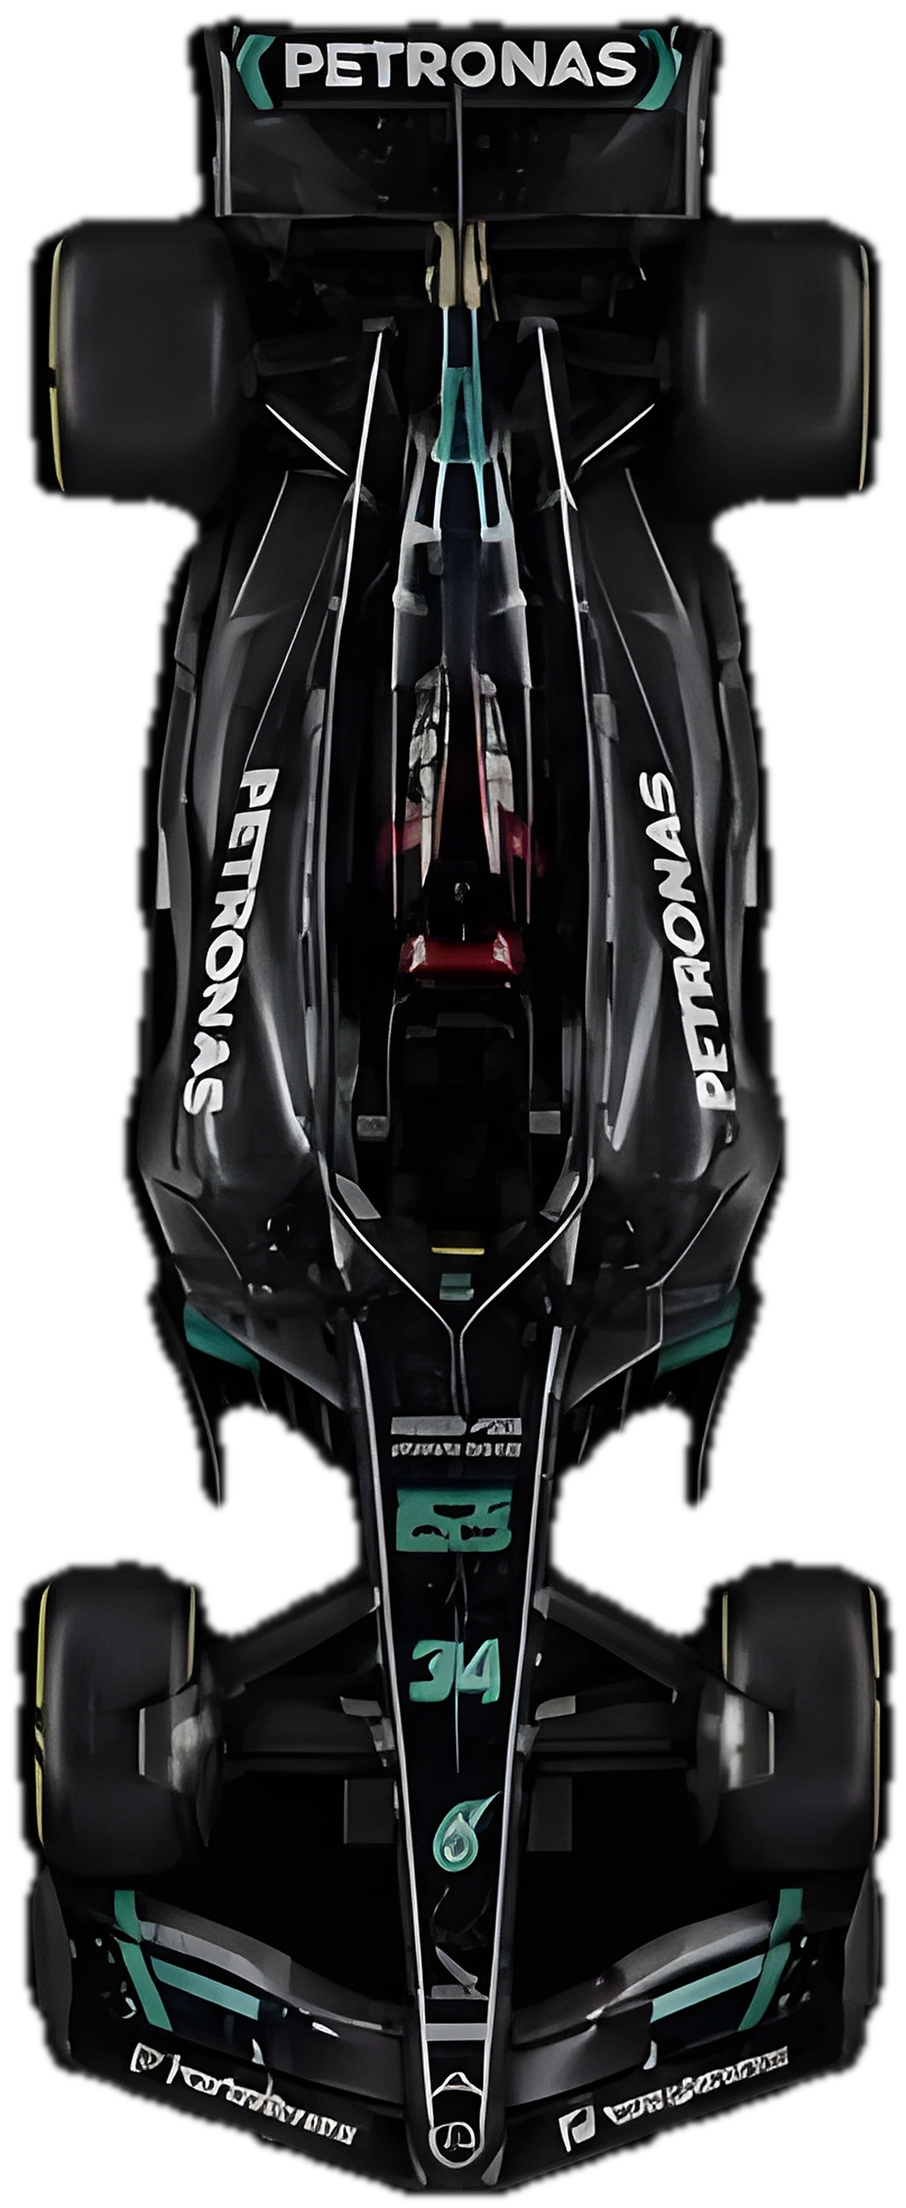
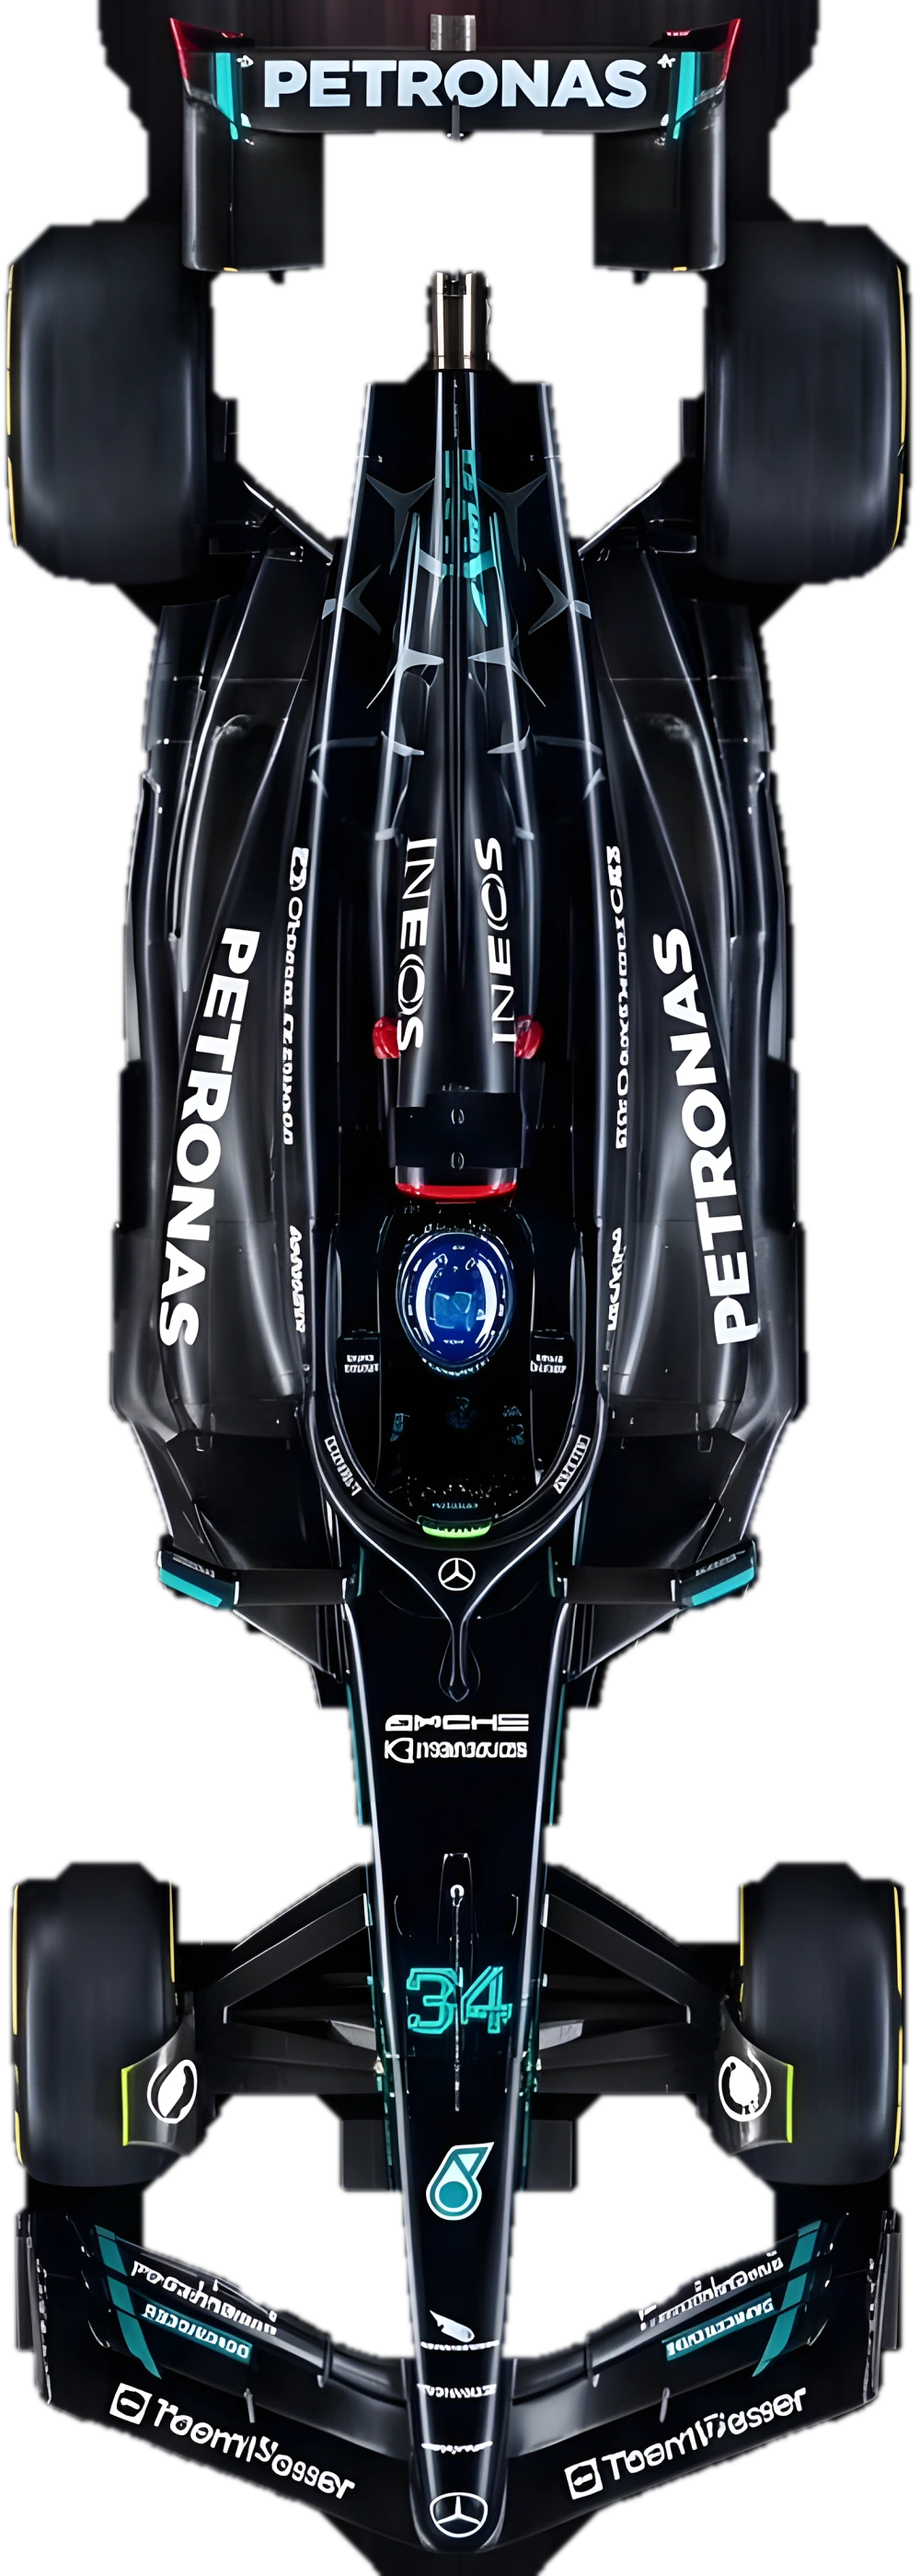
Intro: real cars from the high-res top-down studio photo
Replace the video-frame cars with cutouts from the new 1438x2576
top-down studio shot (about 2x the source detail per car): symmetric
GrabCut masks (Ferrari keeps its separate rear wing), Mercedes rotated
180 degrees so all three face nose down, 4x Real-ESRGAN with light
sharpening, exported at 2800px tall.

Claude-Session: https://claude.ai/code/session_0152wLRBmtu3EhAGdcuZqTLU

diff --git a/storefront-lego-f1/src/lib/models.js b/storefront-lego-f1/src/lib/models.js
@@ -21,9 +21,9 @@ export const MODELS = {
     relief: '/cuadros/mercedes-relieve.png', // mapa de alturas: blanco = sobresale más
     // Entrada: auto LEGO recortado (con transparencia) y póster sin el auto
     cutout: '/cuadros/mercedes-auto.webp',
-    // Entrada: foto del auto F1 real recortada (con transparencia, escalada con IA)
+    // Entrada: auto F1 real visto desde arriba (foto de estudio recortada, escalada con IA)
     realCar: '/cuadros/mercedes-real.webp',
-    realAspect: 0.4104,
+    realAspect: 0.3571,
     posterEmpty: '/cuadros/mercedes-vacio.webp',
     // Llantas 3D: [centro x, centro y, ancho, alto] en fracción del póster (y desde arriba)
     wheels: [
@@ -69,9 +69,9 @@ export const MODELS = {
     relief: '/cuadros/redbull-relieve.png', // mapa de alturas: blanco = sobresale más
     // Entrada: auto LEGO recortado (con transparencia) y póster sin el auto
     cutout: '/cuadros/redbull-auto.webp',
-    // Entrada: foto del auto F1 real recortada (con transparencia, escalada con IA)
+    // Entrada: auto F1 real visto desde arriba (foto de estudio recortada, escalada con IA)
     realCar: '/cuadros/redbull-real.webp',
-    realAspect: 0.4217,
+    realAspect: 0.365,
     posterEmpty: '/cuadros/redbull-vacio.webp',
     // Llantas 3D: [centro x, centro y, ancho, alto] en fracción del póster (y desde arriba)
     wheels: [
@@ -117,9 +117,9 @@ export const MODELS = {
     relief: '/cuadros/ferrari-relieve.png', // mapa de alturas: blanco = sobresale más
     // Entrada: auto LEGO recortado (con transparencia) y póster sin el auto
     cutout: '/cuadros/ferrari-auto.webp',
-    // Entrada: foto del auto F1 real recortada (con transparencia, escalada con IA)
+    // Entrada: auto F1 real visto desde arriba (foto de estudio recortada, escalada con IA)
     realCar: '/cuadros/ferrari-real.webp',
-    realAspect: 0.4175,
+    realAspect: 0.3736,
     posterEmpty: '/cuadros/ferrari-vacio.webp',
     // Llantas 3D: [centro x, centro y, ancho, alto] en fracción del póster (y desde arriba)
     wheels: [
